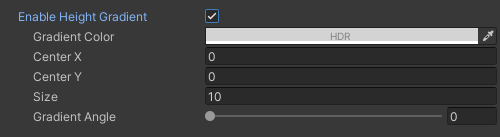
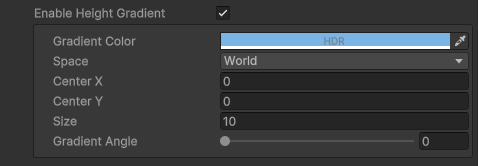
Height Gradient info update

diff --git a/_docs/stylized-surface.md b/_docs/stylized-surface.md
@@ -173,23 +173,27 @@ Although *Rim* option is creatively useful and sometimes can remind an outline e
 
 #### Height Gradient
 
-This effect overlays a gradient from opaque selected color to transparent color onto everything you’ve set before. Height Gradient is global (absolute) per material, it doesn't depend on object's boundaries. If you would like to make a relative gradient (for instance, each object holding one material to contain an entire gradient within itself), duplicate the material and adjust the height gradient. Alternatively, you can use a [Curve mode](/stylized-surface/#cel-shading-mode/) of *Stylized Surface shader*.
+This effect overlays a gradient (blend) from a selected opaque color to the transparency over an object. Height Gradient can be in world space or in local space.
+
+**TIP.** As a reminder, another gradient-producing tool in Flat Kit is a [Curve mode](/stylized-surface/#cel-shading-mode/) of *Stylized Surface shader*.
+{:.notice--success}
 
 ![Height Gradient. Inspector interface](/FlatKit_Manual_Images/gradient_height_parameters.png){:.image-fancy}
 
 {:.image-caption}
 *Height Gradient.* Inspector interface
 
-* **Gradient Color** picks the parameter’s own color to fade into from transparency.
+* **Gradient Color** picks the parameter’s own color to fade from into transparency. The parameter works in HDR.
+* **Space** determines whether the gradient is in world or local space. The options are: _World_, _Local_. _World Space_ means that the _Center_ parameter is relative to the world origin, _Local Space_ means that the _Center_ parameter is relative to the object’s pivot point.
 * **Center X** and **Y** are initial points from where the effect takes effect. Adjust these to move the gradient across the scene. Center X is useful if you engage - *Gradient Angle*, which means the rotation of the Gradient.
-* **Size** determines how steep the transition of Gradient is. The further the value is from 0 (zero) — the more gradual the effect is. Negative values flip the Gradient.
+* **Size** determines how stretched the transition of Gradient is. The further the value is from 0 (zero) — the more gradual the effect is. Negative values flip the Gradient.
 * **Gradient Angle** rotates the gradient.
 
 A bit more about the nature and use of *Height Gradient* is covered in the [Terrain Shader](/terrain/) chapter.
 
 #### Enable Vertex Colors
 
-If enabled, the final shading of the object is multiplied by the vertex color values of the mesh. It is a debug parameter, usually this is not used for changing the look.
+If enabled, the final shading of the object is multiplied by the vertex color values of the mesh. It is a debug parameter, usually it is not used for changing the look.
 
 #### Outline
 
